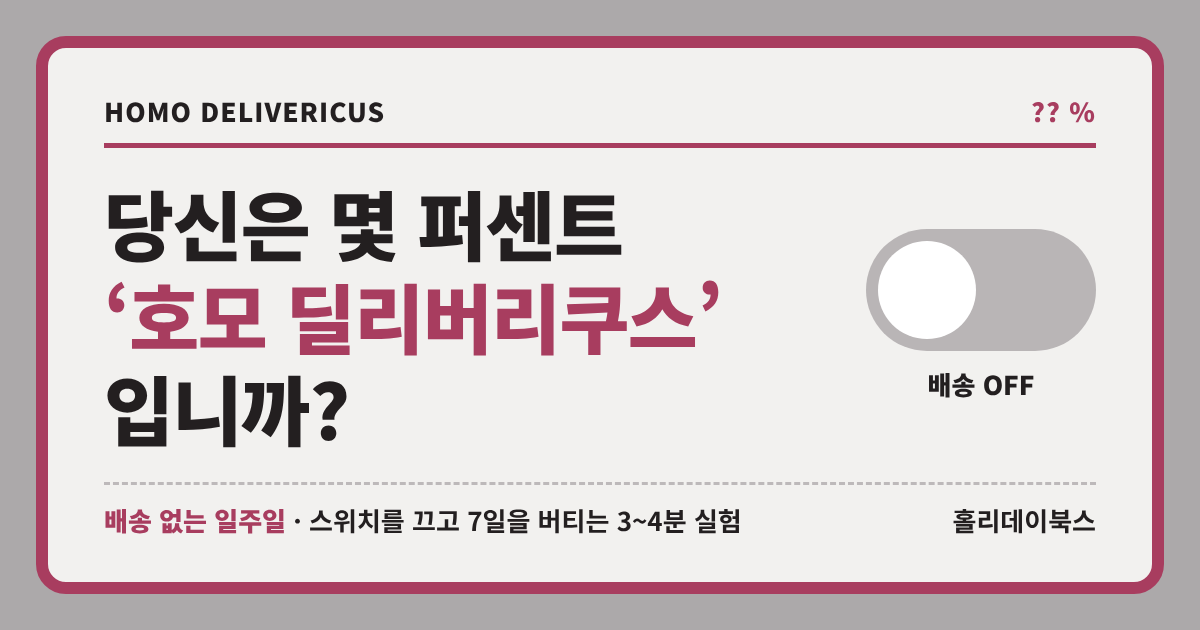
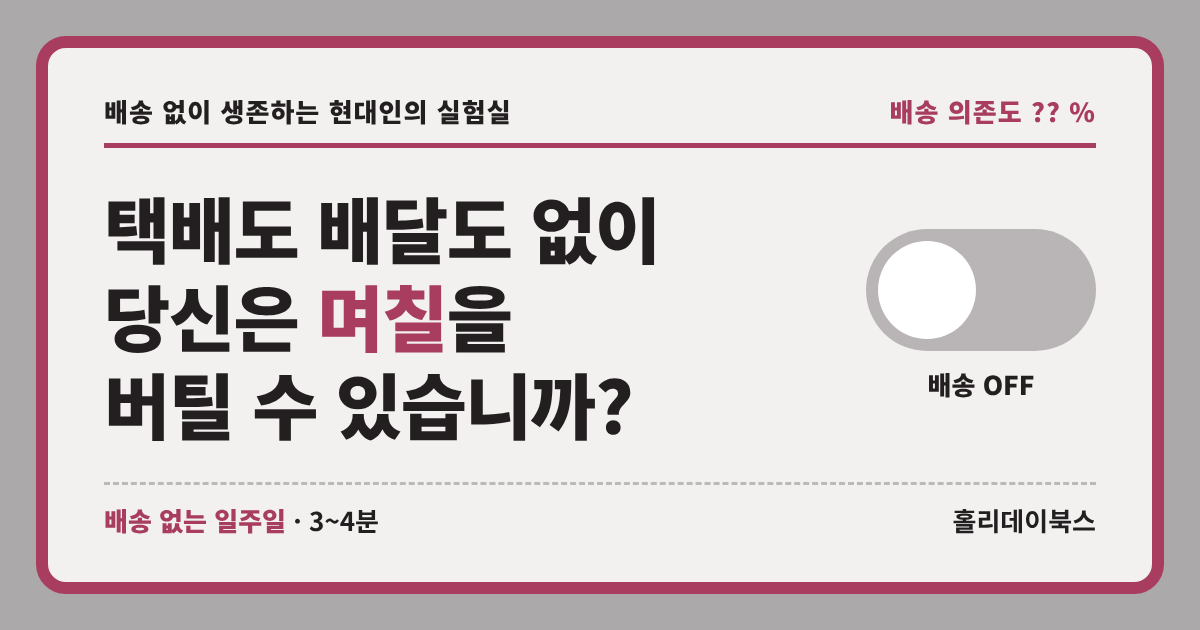
문구를 생존 실험 틀로 교체, 결과 이미지 저장과 미리보기 그림 갱신
Claude-Session: https://claude.ai/code/session_01TykxpSenLdymXQdcpgZPZ4

diff --git a/index.html b/index.html
@@ -4,10 +4,10 @@
 <meta charset="utf-8">
 <meta name="viewport" content="width=device-width,initial-scale=1,viewport-fit=cover">
 <meta name="robots" content="noindex">
-<meta name="description" content="배송 스위치를 끄고 일주일을 버텨 보세요. 3~4분이면 당신이 몇 퍼센트 ‘호모 딜리버리쿠스’(배송받는 인간)인지 나옵니다.">
+<meta name="description" content="일주일 동안 문 앞에 아무것도 오지 않습니다. 3~4분이면 당신의 배송 의존도가 나옵니다.">
 <meta property="og:type" content="website">
-<meta property="og:title" content="당신은 몇 퍼센트 ‘호모 딜리버리쿠스’입니까?">
-<meta property="og:description" content="배송 없는 일주일 · 스위치를 끄고 7일을 버티는 3~4분 실험">
+<meta property="og:title" content="택배도 배달도 없이, 며칠을 버틸 수 있습니까?">
+<meta property="og:description" content="배송 없는 일주일 · 배송 없이 생존하는 현대인의 실험실">
 <meta property="og:image" content="https://rosewein.github.io/homo-delivericus/og.png">
 <meta property="og:image:width" content="1200">
 <meta property="og:image:height" content="630">
@@ -175,7 +175,7 @@ button{font:inherit;color:inherit}
 <body>
 <div class="wrap">
   <div id="app" aria-live="polite"></div>
-  <p class="note">장면과 선택지는 책의 질문을 바탕으로 새로 쓴 가상 상황이고, 시간·기력·안심 수치와 퍼센트는 놀이용입니다. 장 제목과 쪽수는 김철민, 『호모 딜리버리쿠스』(홀리데이북스, 2026)에서 옮겼습니다. 시제품입니다.</p>
+  <p class="note">김철민의 책 『호모 딜리버리쿠스』(홀리데이북스)를 바탕으로 만든 실험입니다. 장면은 지어낸 이야기이고, 점수는 재미로 보는 값입니다.</p>
 </div>
 
 <script>
@@ -188,7 +188,7 @@ const METER = { T: '시간', E: '기력', M: '안심' };
 const SCENES = [
   { d: 0, time: '07:00', title: '빈 현관', key: '빈 현관',
     body: '문을 연다. 늘 놓여 있던 새벽배송 가방이 없다. 냉장고에는 달걀 두 알과 김치가 전부다.',
-    tempt: '지금 켜면 내일 아침, 문 앞에 가방이 놓입니다.',
+    tempt: '지금 주문하면 내일 아침, 문 앞에 가방이 놓입니다.',
     choices: [
       { label: '출근길에 편의점에 들러 아침을 산다', fx: { T: -1 }, visit: 1, people: 1,
         out: '계산대에서 “봉투 필요하세요?”라는 말을 듣는다. 사람 손에서 물건을 건네받은 게 오랜만이다.' },
@@ -197,7 +197,7 @@ const SCENES = [
     ] },
   { d: 0, time: '19:30', title: '퇴근길', key: '장보기',
     body: '일주일 치 먹을 것이 필요하다. 평소라면 지하철에서 주문하고 내일 아침 문 앞에서 받았다.',
-    tempt: '지금 켜면 지하철 안에서 장보기가 끝납니다.',
+    tempt: '지금 주문하면 지하철 안에서 장보기가 끝납니다.',
     choices: [
       { label: '마트에 들러 일주일 치 장을 본다', fx: { T: -2, E: -2, M: 1 }, visit: 1, people: 2, stock: true,
         out: '양손에 봉투를 들고 걷는다. 손가락에 비닐 자국이 남는다. 냉장고가 찼다.' },
@@ -208,7 +208,7 @@ const SCENES = [
     ] },
   { d: 1, time: '08:10', title: '마지막 한 롤', key: '휴지',
     body: '화장실 휴지가 한 롤 남았다. 서른 롤짜리 묶음은 늘 문 앞까지 왔다.',
-    tempt: '지금 켜면 서른 롤이 내일 도착합니다.',
+    tempt: '지금 주문하면 서른 롤이 내일 도착합니다.',
     choices: [
       { label: '점심시간에 사서 사무실로 들고 온다', fx: { T: -1, E: -1 }, visit: 1, people: 1,
         out: '열두 롤 묶음을 안고 엘리베이터에 탄다. 타는 사람마다 한 번씩 쳐다본다. 퇴근길 지하철에서도 안고 간다.' },
@@ -216,8 +216,8 @@ const SCENES = [
         out: '칸 수를 세기 시작한다. 휴지 생각을 이렇게 오래 해 본 적이 없다.' }
     ] },
   { d: 2, time: '22:40', title: '나른한 밤', key: '야식',
-    body: '배가 고픈 건 아니다. 그런데 손이 폰을 집는다. 배달 앱이 있던 자리를 누르자 ‘꺼짐’이라고 뜬다.',
-    tempt: '지금 켜면 20분 뒤 초인종이 울립니다.',
+    body: '배가 고픈 건 아니다. 그런데 손이 폰을 집는다. 배달 앱을 열자 ‘실험 중’이라고 뜬다.',
+    tempt: '지금 주문하면 20분 뒤 초인종이 울립니다.',
     choices: [
       { label: '슬리퍼를 신고 편의점까지 걸어간다', fx: { T: -1, E: -1, M: 1 }, visit: 1, people: 1,
         out: '밤공기가 생각보다 차다. 컵라면 하나를 골라 돌아오는 데 12분이 걸렸다. 그사이 나른함은 사라졌다.' },
@@ -228,7 +228,7 @@ const SCENES = [
     ] },
   { d: 3, time: '12:20', title: '내일까지', key: '선물',
     body: '내일 저녁은 친구 집들이다. 선물을 아직 못 샀다. 어제 주문했다면 오늘 도착했을 것이다.',
-    tempt: '지금 켜면 내일 오전에 선물이 도착합니다.',
+    tempt: '지금 주문하면 내일 오전에 선물이 도착합니다.',
     choices: [
       { label: '퇴근 후 가게를 찾아가 고른다', fx: { T: -2, E: -1, M: 1 }, visit: 1, people: 2, flag: 'shop',
         out: '기억하던 자리에 그 가게가 없다. 두 블록을 더 걸어 다른 가게를 찾는다. 점원이 포장지 두 가지를 꺼내 보여 준다.' },
@@ -237,7 +237,7 @@ const SCENES = [
     ] },
   { d: 4, time: '19:00', title: '금요일 저녁', key: '금요일 저녁',
     body: '한 주가 끝났다. 소파가 부른다. 금요일 저녁은 늘 배달이었다.',
-    tempt: '지금 켜면 소파에서 일어나지 않아도 됩니다.',
+    tempt: '지금 주문하면 소파에서 일어나지 않아도 됩니다.',
     choices: [
       { label: '동네 카페에 가서 저녁을 먹는다', fx: { T: -1, E: -1, M: 2 }, visit: 1, people: 2, flag: 'cafe',
         out: '창가 자리는 픽업을 기다리는 봉투들 차지다. 안쪽 자리에 앉아 샌드위치를 먹는다. 옆 테이블 대화가 들린다.' },
@@ -247,7 +247,7 @@ const SCENES = [
   { d: 5, time: '10:00', title: '16킬로그램', key: '16킬로그램',
     bonus: { T: 3, E: 1, note: '주말입니다. 시간 +3, 기력 +1.' },
     body: '생수가 떨어졌고 쌀통도 바닥이 보인다. 2리터 생수 여섯 병과 쌀 4킬로그램. 늘 문 앞에 놓여 있던 무게다.',
-    tempt: '지금 켜면 16킬로그램이 문 앞까지 옵니다.',
+    tempt: '지금 주문하면 16킬로그램이 문 앞까지 옵니다.',
     choices: [
       { label: '마트에서 사서 들고 온다', fx: { T: -2, E: -3, M: 1 }, visit: 1, people: 1, flag: 'carry',
         out: '16킬로그램을 들고 오다 세 번 쉰다. 문 앞에 놓여 있을 때는 몰랐던 무게를 팔이 먼저 안다.' },
@@ -256,7 +256,7 @@ const SCENES = [
     ] },
   { d: 5, time: '16:00', title: '비어 있는 오후', key: '빈 오후',
     body: '기다릴 택배가 없다. 도착 예정 알림도 오지 않는다. 오후가 통째로 남았다.',
-    tempt: '지금 켜면 기다릴 것이 생깁니다.',
+    tempt: '지금 주문하면 기다릴 것이 생깁니다.',
     choices: [
       { label: '살 것 없이 동네를 한 바퀴 걷는다', fx: { T: -1, E: -1, M: 2 }, visit: 1, people: 1, flag: 'pm',
         out: '처음 보는 골목에 세탁소가 있다. 주인과 눈이 마주쳐 꾸벅 인사한다. 목적 없이 걸은 건 오랜만이다.' },
@@ -265,19 +265,19 @@ const SCENES = [
     ] },
   { d: 6, time: '21:00', title: '일주일 치 목록', key: '일주일 치 목록',
     body: '일주일 동안 사고 싶은 것을 메모장에 적어 두었다. 다시 읽어 본다. 며칠 전의 급함이 낯설다.',
-    tempt: '지금 켜면 목록이 그대로 장바구니가 됩니다.',
+    tempt: '지금 포기하면 목록이 그대로 장바구니가 됩니다.',
     choices: [
       { label: '지금도 필요한 것만 남긴다', fx: { M: 1 },
         out: '절반 넘게 지웠다. 지운 것들은 물건보다 그날의 기분에 가까웠다.' },
       { label: '목록을 그대로 둔다', fx: {},
-        out: '하나도 지우지 않는다. 내일 스위치를 올리면 한꺼번에 담을 수 있다.' }
+        out: '하나도 지우지 않는다. 내일 실험이 끝나면 한꺼번에 주문할 수 있다.' }
     ] }
 ];
 
 const FINALS = [
-  { id: 'all',  label: '전부 다시 켠다',   tail: '그리고 전부 다시 켰다.' },
-  { id: 'some', label: '필요한 것만 켠다', tail: '그리고 필요한 것만 다시 켰다.' },
-  { id: 'off',  label: '하루 더 꺼 둔다',  tail: '그리고 하루 더 꺼 두기로 했다.' }
+  { id: 'all',  label: '전처럼 다 주문한다', tail: '그리고 전처럼 주문하기로 했다.' },
+  { id: 'some', label: '필요한 것만 주문한다', tail: '그리고 필요한 것만 주문하기로 했다.' },
+  { id: 'off',  label: '하루 더 버텨 본다', tail: '그리고 하루 더 버텨 보기로 했다.' }
 ];
 
 function fresh() {
@@ -309,14 +309,14 @@ function enter(s, i) {
 }
 function headline(s) {
   const e = s.end, day = e.scene != null ? DAYS[SCENES[e.scene].d] : '';
-  if (e.type === 'quit')   return `나는 ${day}요일, ${SCENES[e.scene].key} 앞에서 배송을 다시 켰다.`;
-  if (e.type === 'forced') return `나는 ${day}요일, ${METER[e.meter]}이 바닥나 배송을 다시 켰다.`;
-  return `나는 배송 없이 일주일을 살았다. ${FINALS.find(f => f.id === e.final).tail}`;
+  if (e.type === 'quit')   return `나는 ${day}요일, ${SCENES[e.scene].key} 앞에서 결국 주문했다.`;
+  if (e.type === 'forced') return `나는 ${day}요일, ${METER[e.meter]}이 바닥나 결국 주문했다.`;
+  return `나는 배송 없이 일주일을 버텼다. ${FINALS.find(f => f.id === e.final).tail}`;
 }
 function survived(s) { return s.end.type === 'done' ? 7 : SCENES[s.end.scene].d; }
 function finalCut(s) { return s.end.type !== 'done' ? 0 : s.end.final === 'off' ? 25 : s.end.final === 'some' ? 12 : 0; }
 function score(s) { return Math.max(0, Math.min(100, 100 - survived(s) * 5 - s.visits * 5 - finalCut(s))); }
-function tier(p) { return p >= 85 ? '뼛속까지 배송받는 인간' : p >= 60 ? '꽤 배송받는 인간' : p >= 35 ? '반쯤 배송받는 인간' : '아직은 제 발로 움직이는 인간'; }
+function tier(p) { return p >= 85 ? '뼛속까지 호모 딜리버리쿠스' : p >= 60 ? '꽤 호모 딜리버리쿠스' : p >= 35 ? '반쯤 호모 딜리버리쿠스' : '아직은 제 발로 움직이는 인간'; }
 const CH = {
   1: ['현관문 앞이 세계의 끝이다', 22], 3: ['외출은 선택이 되었고, 배송은 기본값이 되었다', 40],
   4: ['집은 더 이상 집이 아니다', 50], 5: ['우리가 잃어버린 것은 시간이 아니라 주권이었다', 57],
@@ -329,8 +329,8 @@ const METER_CH = { M: 13, T: 5, E: 28 };
 function rx(s) {
   const e = s.end, at = i => (SCENES[i].title.includes('요일') ? '' : DAYS[SCENES[i].d] + '요일 ') + `‘${SCENES[i].title}’`;
   let ch, why;
-  if (e.type === 'quit') { ch = SCENE_CH[e.scene]; why = `${at(e.scene)}에서 스위치를 올렸습니다. 그 순간을 다루는 장입니다.`; }
-  else if (e.type === 'forced') { ch = METER_CH[e.meter]; why = `${METER[e.meter]}이 바닥나 스위치가 올라갔습니다. 그 바닥을 다루는 장입니다.`; }
+  if (e.type === 'quit') { ch = SCENE_CH[e.scene]; why = `${at(e.scene)}에서 포기하고 주문했습니다. 그 순간을 다루는 장입니다.`; }
+  else if (e.type === 'forced') { ch = METER_CH[e.meter]; why = `${METER[e.meter]}이 바닥나 결국 주문했습니다. 그 바닥을 다루는 장입니다.`; }
   else { const i = s.tight ? s.tight.i : 0; ch = SCENE_CH[i]; why = `일주일 중 가장 아슬아슬했던 순간은 ${at(i)}이었습니다. 그 순간을 다루는 장입니다.`; }
   return { ch, title: CH[ch][0], page: CH[ch][1], why };
 }
@@ -369,22 +369,22 @@ function chips(s, c) {
 }
 function viewIntro() {
   return `<section class="intro">
-    <p class="eyebrow">『호모 딜리버리쿠스』로 만든 7일 실험 · 3~4분</p>
+    <p class="eyebrow">배송 없이 생존하는 현대인의 실험실 · 3~4분</p>
     <h1 tabindex="-1">배송 <em>없는</em><br>일주일</h1>
-    <p class="hook">당신은 몇 퍼센트 ‘호모 딜리버리쿠스’입니까?</p>
-    <p class="lead">『호모 딜리버리쿠스』는 배송을 삶의 운영체제(OS)라고 부릅니다. 그 스위치를 일주일만 내려 봅니다. 택배, 새벽배송, 배달 음식, 20분 장보기까지 문 앞에 아무것도 오지 않습니다. 필요한 것은 직접 가서 구하거나 없이 지냅니다. 일주일이 끝나면 답이 나옵니다.</p>
-    <div class="hero-sw">${sw(true, true, '배송 ON')}<span class="hero-hint">스위치를 내리면 월요일 0시부터 시작합니다</span></div>
+    <p class="hook">택배도 배달도 없이, 당신은 며칠을 버틸 수 있습니까?</p>
+    <p class="lead">실험 조건은 하나입니다. 일주일 동안 문 앞에 아무것도 오지 않습니다. 택배, 새벽배송, 배달 음식, 20분 장보기가 모두 멈춥니다. 필요한 것은 직접 가서 구하거나 없이 지냅니다.</p>
+    <div class="hero-sw">${sw(true, true, '배송 ON')}<span class="hero-hint">눌러서 배송을 끊으면 월요일 0시부터 실험이 시작됩니다</span></div>
     <div class="fact"><p><b>2025년 택배 물동량은 60억 개를 넘었습니다.</b> 사흘에 한 번꼴로 택배를 받는 셈입니다.</p><span class="src">『호모 딜리버리쿠스』 15·25쪽</span></div>
     <ul class="rules">
       <li><b>세 가지</b><span>시간, 기력, 안심으로 일주일을 삽니다. 안심은 필요한 것이 곧 온다는 마음입니다.</span></li>
-      <li><b>값</b><span>직접 움직이면 시간과 기력이 들고, 없이 버티면 안심이 줄어듭니다. 하나라도 바닥나면 스위치가 저절로 올라갑니다.</span></li>
-      <li><b>스위치</b><span>언제든 다시 올릴 수 있습니다. 올리는 순간 실험은 끝납니다.</span></li>
+      <li><b>값</b><span>직접 움직이면 시간과 기력이 들고, 없이 버티면 안심이 줄어듭니다. 하나라도 바닥나면 손이 먼저 주문 버튼을 누릅니다.</span></li>
+      <li><b>포기</b><span>언제든 포기하고 주문할 수 있습니다. 주문하는 순간 실험은 끝납니다.</span></li>
     </ul>
   </section>`;
 }
 
-const CONFIRM = `<div class="confirm"><p><b>스위치를 올리면 실험이 여기서 끝납니다.</b></p><div class="row">
-  <button class="btn rasp" data-act="quit">올린다</button><button class="btn ghost" data-act="stay">계속 꺼 둔다</button></div></div>`;
+const CONFIRM = `<div class="confirm"><p><b>주문하면 실험이 여기서 끝납니다.</b></p><div class="row">
+  <button class="btn rasp" data-act="quit">주문한다</button><button class="btn ghost" data-act="stay">계속 버틴다</button></div></div>`;
 
 function viewScene(s) {
   const sc = SCENES[s.i], day = DAYS[sc.d];
@@ -395,13 +395,13 @@ function viewScene(s) {
       <div class="choices">${available(s, sc).map(c =>
         `<button class="choice" data-act="pick" data-n="${sc.choices.indexOf(c)}"><span>${c.label}</span>${chips(s, c)}</button>`).join('')}</div>`;
     foot = s.confirm ? CONFIRM
-      : `<div class="tempt"><span>${sc.tempt}</span><button class="link" data-act="ask">다시 켠다</button></div>`;
+      : `<div class="tempt"><span>${sc.tempt}</span><button class="link" data-act="ask">포기하고 주문한다</button></div>`;
   } else {
     const c = sc.choices[s.pick], out = s.end && s.end.type === 'forced';
     const delta = ['T', 'E', 'M'].filter(k => c.fx[k]).map(k => `${METER[k]} ${fmt(c.fx[k])}`).join(' · ');
     main = `${head}<p class="picked">${c.label}</p><p>${c.out}</p>
       ${delta ? `<p class="src">${delta}</p>` : ''}
-      ${out ? `<p><b>${METER[s.end.meter]}이 바닥났습니다.</b> ${s.end.meter === 'M' ? '불안이 먼저 도착했습니다. ' : ''}손이 먼저 스위치를 올립니다.</p>` : ''}
+      ${out ? `<p><b>${METER[s.end.meter]}이 바닥났습니다.</b> ${s.end.meter === 'M' ? '불안이 먼저 도착했습니다. ' : ''}손이 먼저 주문 버튼을 누릅니다.</p>` : ''}
       <div class="row"><button class="btn" data-act="next">${out ? '결과 보기' : s.i === SCENES.length - 1 ? '자정으로' : '다음'}</button></div>`;
     if (s.confirm && !out) foot = CONFIRM;
   }
@@ -411,7 +411,7 @@ function viewScene(s) {
 function viewFinal(s) {
   return `${bar(false, true)}${days(7)}${meters(s)}<section class="card"><div class="card-main">
     <div class="stamp mono"><span>월 00:00</span><span>문 앞 0개</span></div><h2 tabindex="-1">자정</h2>
-    <p>일주일이 지났다. 문 앞에는 끝까지 아무것도 오지 않았다. 스위치가 손끝에 있다.</p>
+    <p>일주일이 지났다. 문 앞에는 끝까지 아무것도 오지 않았다. 실험은 끝났고, 이제 다시 주문할 수 있다.</p>
     <div class="choices">${FINALS.map(f => `<button class="choice" data-act="final" data-id="${f.id}"><span>${f.label}</span></button>`).join('')}</div>
   </div></section>`;
 }
@@ -419,17 +419,17 @@ function viewFinal(s) {
 function viewResult(s) {
   const on = !(s.end.type === 'done' && s.end.final === 'off');
   const n = survived(s), pct = score(s), fc = finalCut(s), r = rx(s);
-  const calc = `100 − 버틴 날 ${n}일×5 − 직접 간 곳 ${s.visits}곳×5${fc ? ` − ${s.end.final === 'off' ? '하루 더 꺼 둠' : '필요한 것만 켬'} ${fc}` : ''} = ${pct}`;
+  const calc = `100 − 버틴 날 ${n}일×5 − 직접 간 곳 ${s.visits}곳×5${fc ? ` − ${s.end.final === 'off' ? '하루 더 버팀' : '필요한 것만 주문'} ${fc}` : ''} = ${pct}`;
   return `${bar(on, true)}${days(n, true)}
   <section class="bill">
     <div class="bill-top"><span>HOMO DELIVERICUS</span><span class="mono">${n} / 7</span></div>
-    <dl class="to"><dt>보낸 곳</dt><dd>배송 없는 일주일</dd><dt>받는 분</dt><dd>당신</dd><dt>품명</dt><dd class="hl">배송받는 인간 ${pct}%</dd></dl>
+    <dl class="to"><dt>보낸 곳</dt><dd>배송 없는 일주일</dd><dt>받는 분</dt><dd>당신</dd><dt>품명</dt><dd class="hl">배송 의존도 ${pct}%</dd></dl>
     <div class="verdict">
-      <h2 tabindex="-1">당신은 ‘호모 딜리버리쿠스’입니까?</h2>
+      <h2 tabindex="-1">실험 결과 · 당신의 배송 의존도</h2>
       <p class="pct" aria-label="${pct}퍼센트"><b>${pct}</b><span>%</span></p>
       <div class="gauge" aria-hidden="true"><i style="width:${pct}%"></i></div>
       <p class="tier">${tier(pct)}</p>
-      <p class="src">호모 딜리버리쿠스(Homo Delivericus)는 책이 붙인 이름으로, ‘배송받는 인간’이라는 뜻입니다.</p>
+      <p class="src">호모 딜리버리쿠스(Homo Delivericus)는 ‘배송받는 인간’이라는 뜻으로, 같은 제목의 책이 붙인 이름입니다.</p>
     </div>
     <p class="sent">${headline(s)}</p>
     <p class="src calc">${calc}</p>
@@ -448,7 +448,7 @@ function viewResult(s) {
     </div>
     <p class="half"><b>당신이 본 것은 문 안쪽입니다.</b> 문 밖에서 그 상자를 나르는 사람들은 4부 ‘부품이 된 인간’에, 당신이 정하기 전에 먼저 정하는 AI는 5부 ‘AI가 설계하는 삶’에 있습니다.</p>
     <div class="door"><div class="door-floor">${on ? '<span class="bx"></span><span class="bx"></span><span class="bx"></span>' : ''}</div>
-      <span class="door-cap">${on ? '스위치를 올리자 문 앞이 다시 차기 시작합니다.' : '문 앞은 오늘도 비어 있습니다.'}</span></div>
+      <span class="door-cap">${on ? '주문하자 문 앞이 다시 차기 시작합니다.' : '문 앞은 오늘도 비어 있습니다.'}</span></div>
     <p class="ask">“당신은 움직이는가, 움직여지는가?”</p><span class="src">『호모 딜리버리쿠스』 19쪽</span>
     <div class="bc" aria-hidden="true"></div>
     <div class="bill-foot"><p class="title-line"><b>호모 딜리버리쿠스</b>배송 문명은 어떻게 우리를 바꿨는가<br>김철민 지음 · 홀리데이북스</p><span class="caution">취급주의</span></div>
@@ -478,7 +478,7 @@ async function makeCard(s) {
   const W = 1080, H = 1350, c = document.createElement('canvas'); c.width = W; c.height = H;
   const g = c.getContext('2d'), pct = score(s), r = rx(s), n = survived(s);
   const sent = headline(s), chap = `${r.ch}장 ${r.title}`;
-  try { await Promise.all([900, 700, 500].map(w => document.fonts.load(FONT(w, 40), sent + chap + tier(pct) + '당신은호모딜리버리쿠스입니까에게배송된쪽부터김철민지음홀리데이북스없는일주일취급주의'))); } catch (e) {}
+  try { await Promise.all([900, 700, 500].map(w => document.fonts.load(FONT(w, 40), sent + chap + tier(pct) + '당신나의배송의존도호모딜리버리쿠스에게된쪽부터김철민지음홀리데이북스없는일주일취급주의'))); } catch (e) {}
   g.fillStyle = IMG.box; g.fillRect(0, 0, W, H);
   roundRect(g, 54, 54, W - 108, H - 108, 34); g.fillStyle = IMG.paper; g.fill(); g.lineWidth = 12; g.strokeStyle = IMG.rasp; g.stroke();
   const L = 118, R = W - 118, IW = R - L; let y = 152;
@@ -487,7 +487,7 @@ async function makeCard(s) {
   g.fillStyle = IMG.ink; g.font = FONT(900, 30); g.fillText('HOMO DELIVERICUS', L, y);
   g.fillStyle = IMG.rasp; g.textAlign = 'right'; g.fillText(`${n} / 7`, R, y); g.textAlign = 'left';
   g.fillRect(L, y + 20, IW, 6);
-  y += 104; g.fillStyle = IMG.ink; g.font = FONT(900, 44); g.fillText('당신은 ‘호모 딜리버리쿠스’입니까?', L, y);
+  y += 104; g.fillStyle = IMG.ink; g.font = FONT(900, 44); g.fillText('배송 없는 일주일 · 나의 배송 의존도', L, y);
   y += 262; g.fillStyle = IMG.rasp; g.font = FONT(900, 290); const num = String(pct); g.fillText(num, L - 14, y);
   const nw = g.measureText(num).width; g.font = FONT(900, 116); g.fillText('%', L - 14 + nw + 8, y);
   y += 40; roundRect(g, L, y, IW, 26, 13); g.fillStyle = '#FFFFFF'; g.fill();

diff --git a/README.md b/README.md
@@ -1,3 +1,3 @@
 # 배송 없는 일주일
 
-김철민, 『호모 딜리버리쿠스』(홀리데이북스, 2026)를 바탕으로 만든 3~4분짜리 웹게임 시제품입니다.
+김철민의 책 『호모 딜리버리쿠스』(홀리데이북스)를 바탕으로 만든 3~4분짜리 웹게임입니다.
